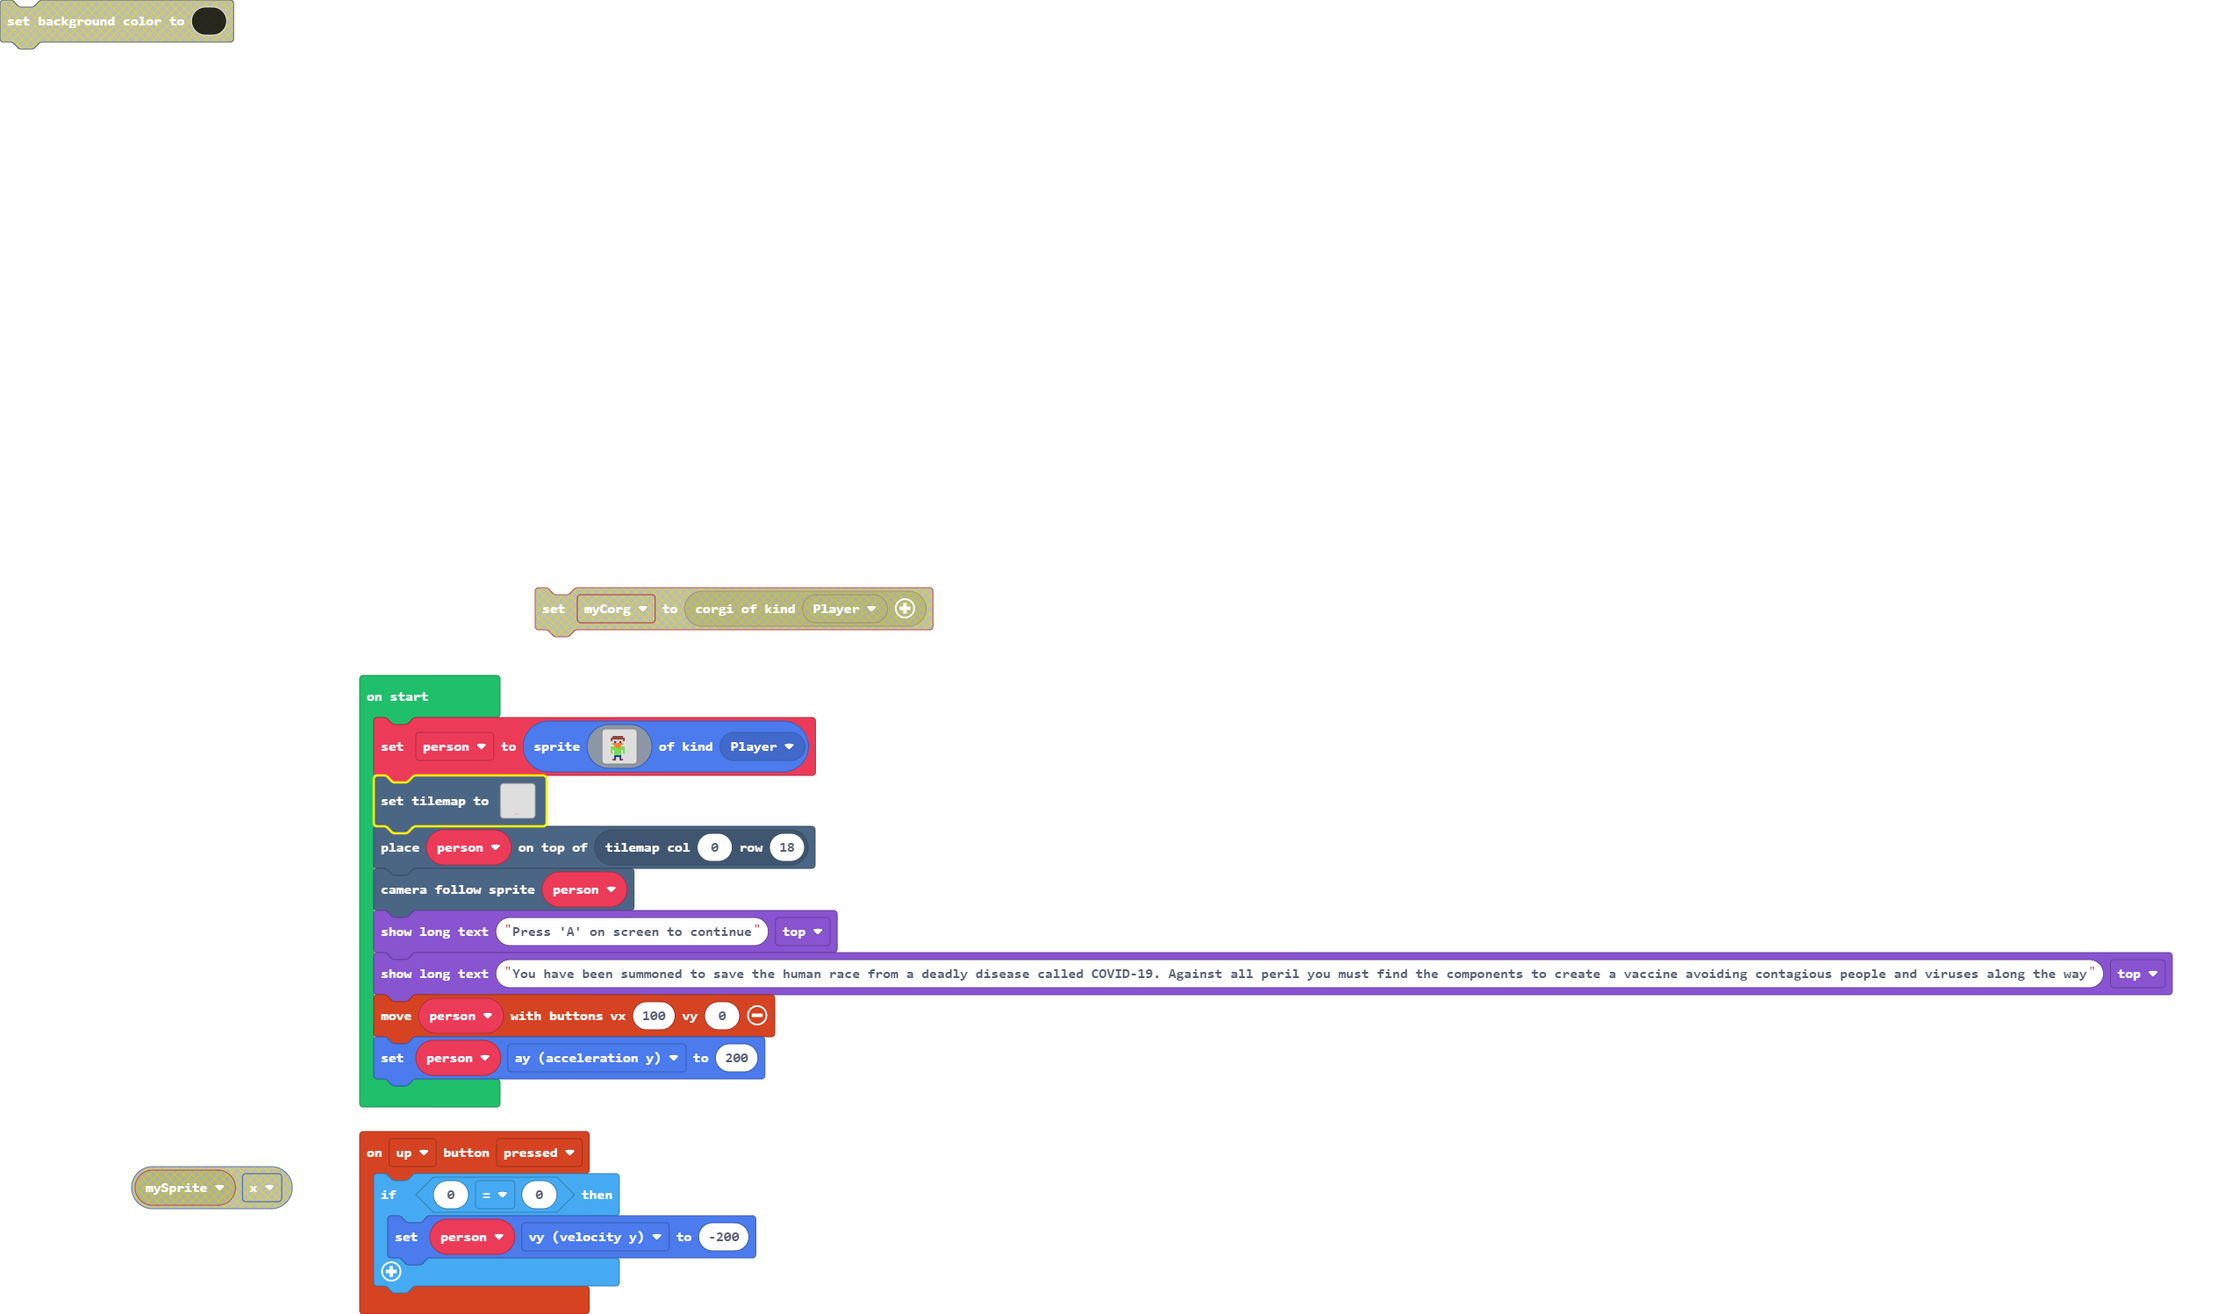
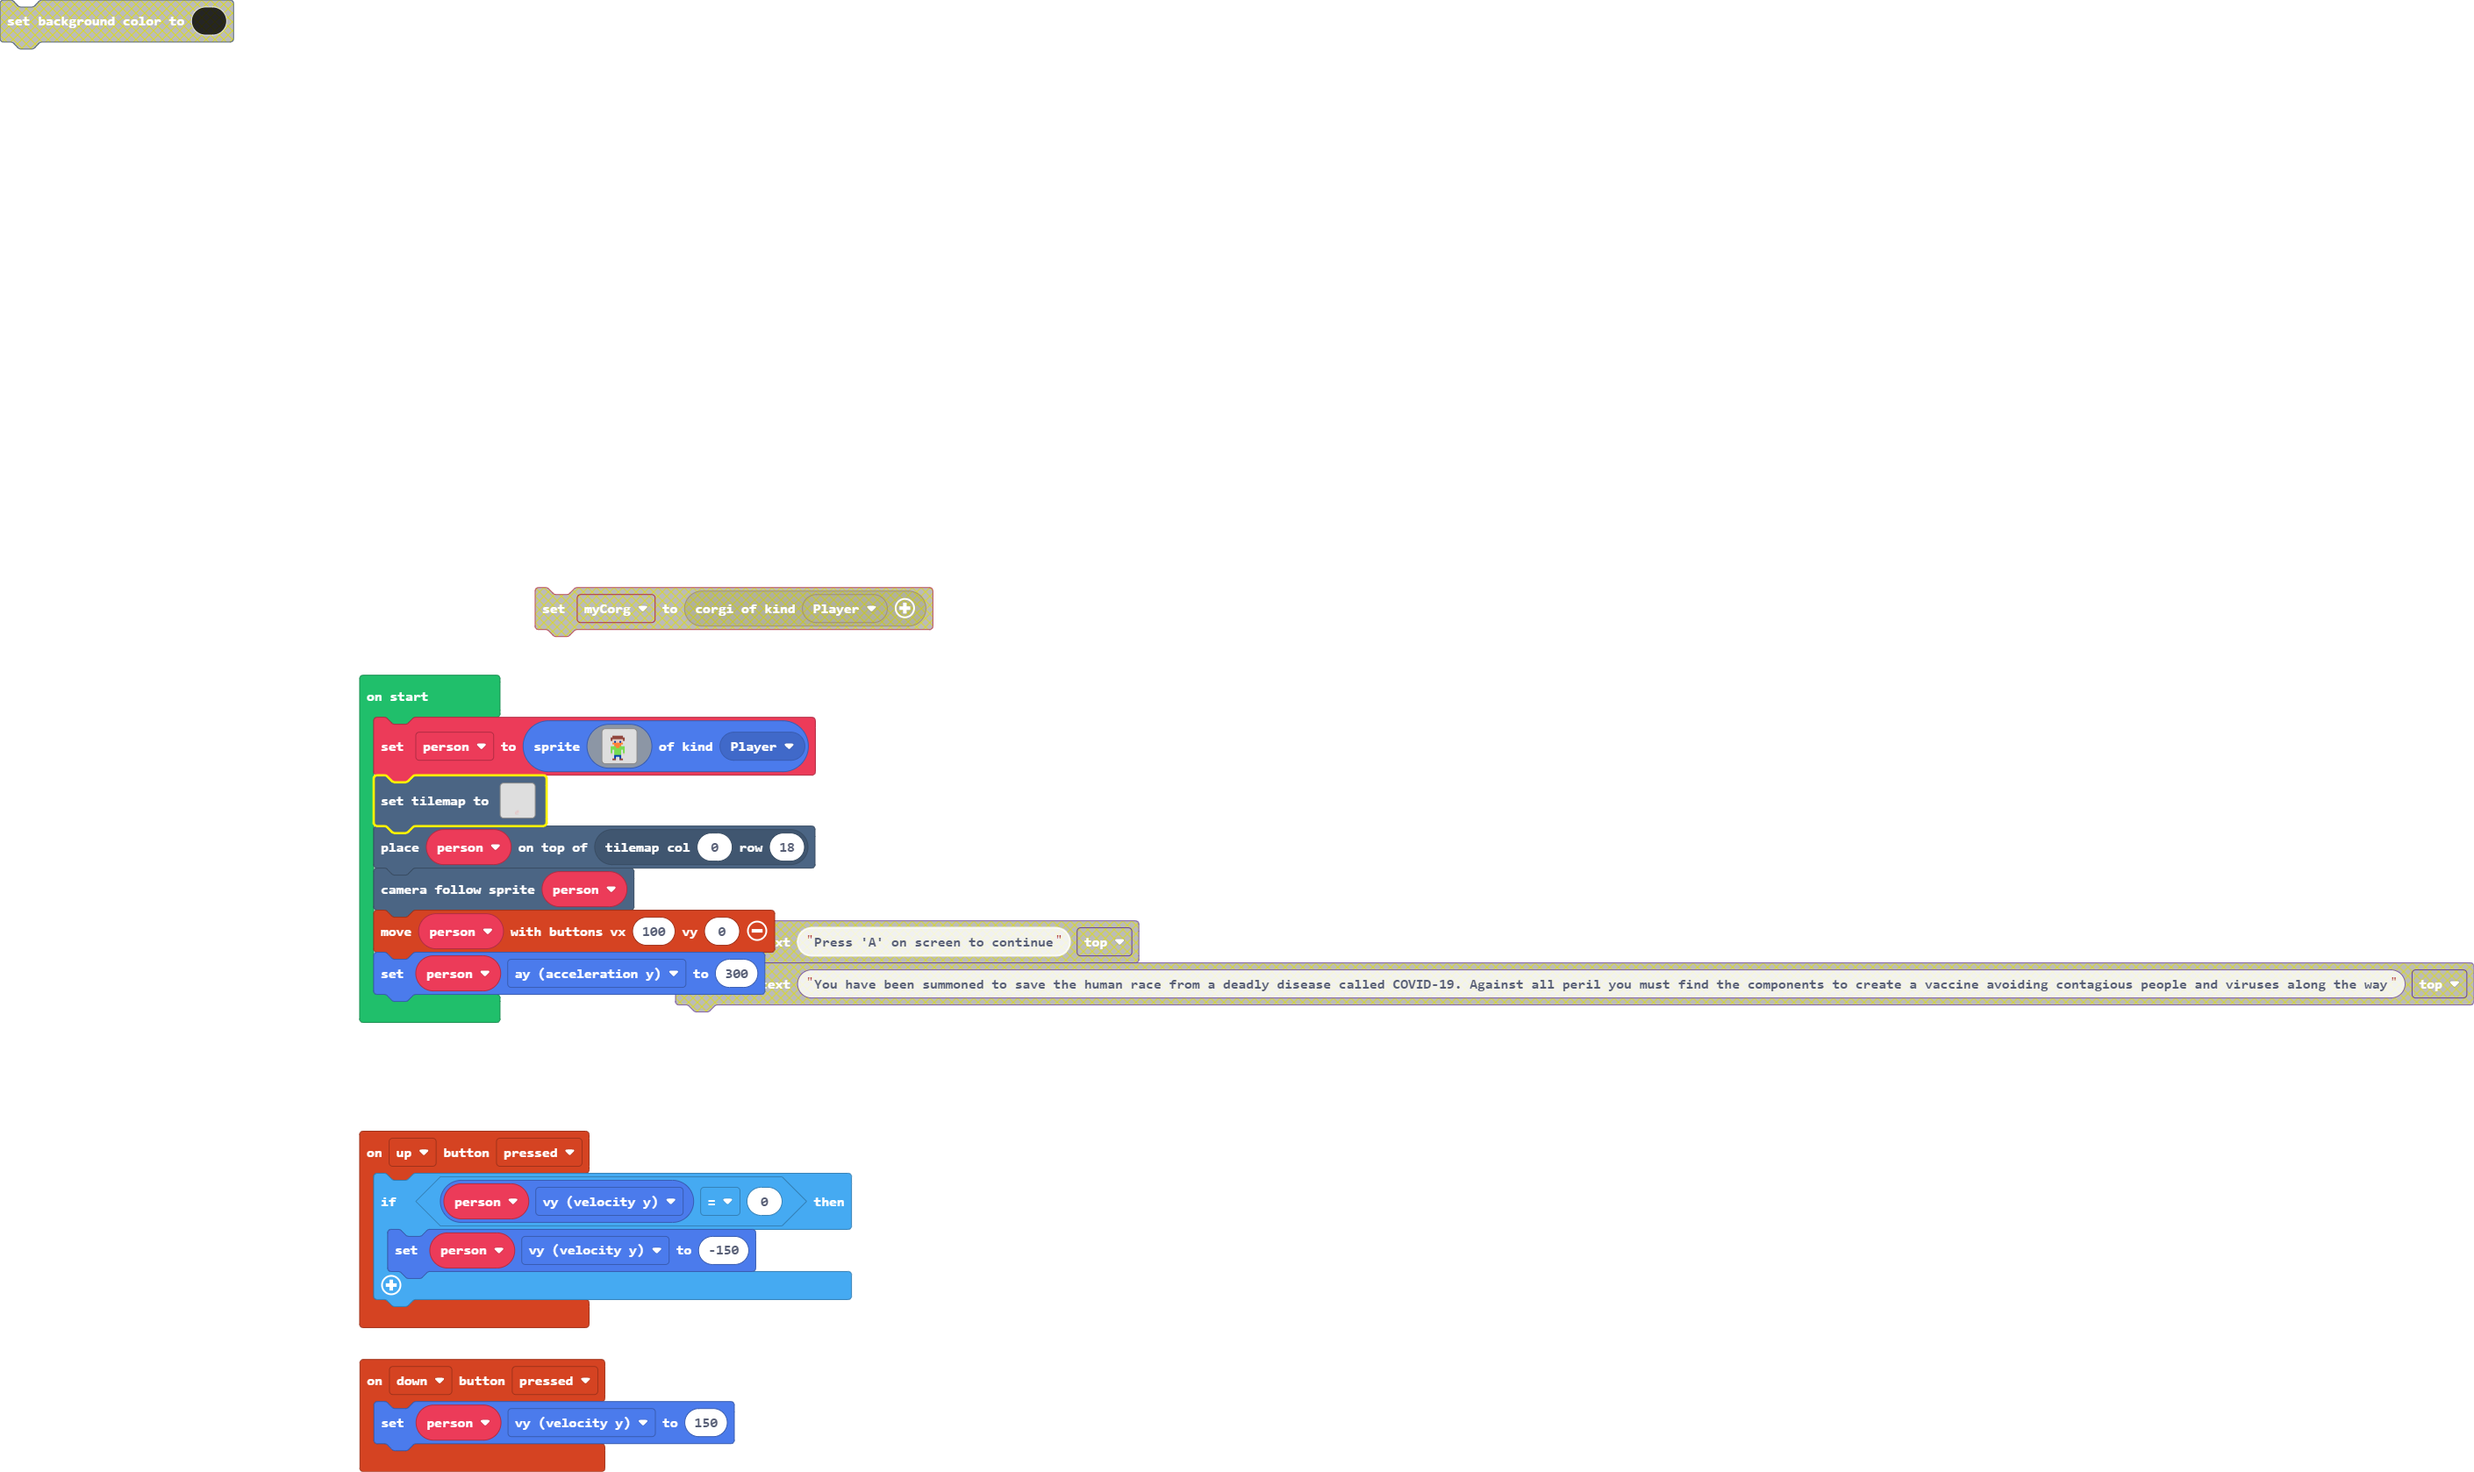
Map Change 02

Changed region(s): [[0.0625, 0.3992, 1.0, 1.0], [0.0, 0.0, 0.125, 0.0614]]

diff --git a/main.ts b/main.ts
@@ -2,9 +2,12 @@ namespace SpriteKind {
     export const h = SpriteKind.create()
 }
 controller.up.onEvent(ControllerButtonEvent.Pressed, function () {
-    if (0 == 0) {
-        person.vy = -200
+    if (person.vy == 0) {
+        person.vy = -150
     }
+})
+controller.down.onEvent(ControllerButtonEvent.Pressed, function () {
+    person.vy = 150
 })
 let person: Sprite = null
 person = sprites.create(img`
@@ -25,7 +28,7 @@ person = sprites.create(img`
     . . . . . 8 . . 8 . . . . . . . 
     . . . . e e . . e e . . . . . . 
     `, SpriteKind.Player)
-tiles.setTilemap(tiles.createTilemap(hex`140064000000000000000000000000000000000000000000000000000000000000000000000000000000000000000000000000000000000000000000000000000000000000000000000000000000000000000000000000000000000000000000000000000000000000000000000000000000000000000000000000000000000000000000000000000000000000000000000000000000000000000000000000000000000000000000000000000000000000000000000000000000000000000000000000000000000000000000000000000000000000000000000000000000000000000000000000000000000000000000000000000000000000000000000000000000000000000000000000000000000000000000000000000000000000000000000000000000000000000000000000000000000000000000000000000000000000000000010000000000000000000000000000000000000000000000000000000000000000000000000000000000000000000000000000000000000000000000000000000000000000000000000000000000000000000000000000000000000000000000000000000000000000000000000000000000000000000000000000000000000000000000000000000000000000000000000000000000000000000000000000000000000000000000000000000000000000000000000000000000000000000000000000000000000000000000000000000000000000000000000000000000000000000000000000000000000000000000000000000000000000000000000000000000000000000000000000000000000000000000000000000000000000000000000000000000000000000000000000000000000000000000000000000000000000000000000000000000000000000000000000000000000000000000000000000000000000000000000000000000000000000000000000000000000000000000000000000000000000000000000000000000000000000000000000000000000000000000000000000000000000000000000000000000000000000000000000000000000000000000000000000000000000000000000000000000000000000000000000000000000000000000000000000000000000000000000000000000000000000000000000000000000000000000000000000000000000000000000000000000000000000000000000000000000000000000000000000000000000000000000000000000000000000000000000000000000000000000000000000000000000000000000000000000000000000000000000000000000000000000000000000000000000000000000000000000000000000000000000000000000000000000000000000000000000000000000000000000000000000000000000000000000000000000000000000000000000000000000000000000000000000000000000000000000000000000000000000000000000000000000000000000000000000000000000000000000000000000000000000000000000000000000000000000000000000000000000000000000000000000000000000000000000000000000000000000000000000000000000000000000000000000000000000000000000000000000000000000000000000000000000000000000000000000000000000000000000000000000000000000000000000000000000000000000000000000000000000000000000000000000000000000000000000000000000000000000000000000000000000000000000000000000000000000000000000000000000000000000000000000000000000000000000000000000000000000000000000000000000000000000000000000000000000000000000000000000000000000000000000000000000000000000000000000000000000000000000000000000000000000000000000000000000000000000000000000000000000000000000000000000000000000000000000000000000000000000000000000000000000000000000000000000000000000000000000000000000000000000000000000000000000000000000000000000000000000000000000000020200000000000000000000000000000000000000000000000000000000000000000000000000000000000000000000000000000000000000000000000000000000000000000000000000000000000000000000000000000000000000000000000000000000000000000000000000000000000000000000000000000000000000000000000000000000000000000000000000000000000000000000000000000000000000000000000000000000000000000000000000000000000000000000000000000000000000000000000000000000000000000000000000000000000000000000000000000000000000000000000000000000000000000000000000000000000000000000000000000000000000000000000000000000000000000000000000000000000000000000000000000000000000000003000000000000000000000000000000000000000000030000000000000000000000030303030000000000000300000000000000000300000000000000000000000003000000000003000000000000000000000000000000000303030000000303040403030000000000000300000000000003030303030303030000000300000000000000030303030000000000000300000000000303030303030505050505050505050505050505`, img`
+tiles.setTilemap(tiles.createTilemap(hex`14009600000000000000000000000000000000000000000000000000000000000000000000000000000000000000000000000000000000000000000000000000000000000000000000000000000000000000000000000000000000000000000000000000000000000000000000000000000000000000000000000000000000000000000000000000000000000000000000000000000000000000000000000000000000000000000000000000000000000000000000000000000000000000000000000000000000000000000000000000000000000000000000000000000000000000000000000000000000000000000000000000000000000000000000000000000000000000000000000000000000000000000000000000000000000000000000000000000000000000000000000000000000000000000000000000000000000000000001000000000000000000000000000000000000000000000000000000000000000000000000000000000000000000000000000000000000000000000000000000000000000000000000000000000000000000000000000000000000000000000000000000000000000000000000000000000000000000000000000000000000000000000000000000000000000000000000000000000000000000000000000000000000000000000000000000000000000000000000000000000000000000000000000000000000000000000000000000000000000000000000000000000000000000000000000000000000000000000000000000000000000000000000000000000000000000000000000000000000000000000000000000000000000000000000000000000000000000000000000000000000000000000000000000000000000000000000000000000000000000000000000000000000000000000000000000000000000000000000000000000000000000000000000000000000000000000000000000000000000000000000000000000000000000000000000000000000000000000000000000000000000000000000000000000000000000000000000000000000000000000000000000000000000000000000000000000000000000000000000000000000000000000000000000000000000000000000000000000000000000000000000000000000000000000000000000000000000000000000000000000000000000000000000000000000000000000000000000000000000000000000000000000000000000000000000000000000000000000000000000000000000000000000000000000000000000000000000000000000000000000000000000000000000000000000000000000000000000000000000000000000000000000000000000000000000000000000000000000000000000000000000000000000000000000000000000000000000000000000000000000000000000000000000000000000000000000000000000000000000000000000000000000000000000000000000000000000000000000000000000000000000000000000000000000000000000000000000000000000000000000000000000000000000000000000000000000000000000000000000000000000000000000000000000000000000000000000000000000000000000000000000000000000000000000000000000000000000000000000000000000000000000000000000000000000000000000000000000000000000000000000000000000000000000000000000000000000000000000000000000000000000000000000000000000000000000000000000000000000000000000000000000000000000000000000000000000000000000000000000000000000000000000000000000000000000000000000000000000000000000000000000000000000000000000000000000000000000000000000000000000000000000000000000000000000000000000000000000000000000000000000000000000000000000000000000000000000000000000000000000000000000000000000000000000000000000000000000000000000000000000000000000000000000000000000000000000000000000000000000000000000000000000000000000000000000000000000000000000000000000000000000000000000000000000000000000000000000000000000000000000000000000000000000000000000000000000000000000000000000000000000000000000000000000000000000000000000000000000000000000000000000000000000000000000000000000000000000000000000000000000000000000000000000000000000000000000000000000000000000000000000000000000000000000000000000000000000000000000000000000000000000000000000000000000000000000000000000000000000000000000000000000000000000000000000000000000000000000000000000000000000000000000000000000000000000000000000000000000000000000000000000000000000000000000000000000000000000000000000000000000000000000000000000000000000000000000000000000000000000000000000000000000000000000000000000000000000000000000000000000000000000000000000000000000000000000000000000000000000000000000000000000000000000000000000000000000000000000000000000000000000000000000000000000000000000000000000000000000000000000000000000000000000000000000000000000000000000000000000000000000000000000000000000000000000000000000000000000000000000000000000000000000000000000000000000000000000000000000000000000000000000000000000000000000000000000000000000000000000000000000000000000000000000000000000000000000000000000000000000000000000000000000000000000000000000000000000000000000000000000000000000000000000000000000000000000000000000000000000000000000000000000000000000000000000000000000000000000000000000000000000000000000000000000000000000000000000000000000000000000000000000000000000000000000000000000000000000000000002000000000000000000000000000000000000000000000000000000000000000000000000000000000000000000000000000000000000000000000000000000000000000000000000000000000000000000000000000000000000000000000000000000000000000000000000000000000000000000000000000000000000000000000000000000000000000000000000000000000000000000000000000000000000000000000000000000000000000000000000000000000000000000000000000000000000000000000000000000000000000000000000000000000002000000000000000000000003030303000000000000000000000000000003030300000000000000000000000000000000000600000000000303000000000000000000000600000000000300030300000000000000000600000000000300030003030000000000000006000000000300030003000303000000000006000000000300030003000300030300000006000000000300030003000300030003030000000000000003030003000300030003000303000000000003000303000300030003000300030300000303040304030304030003000300030003030300000303030303030303030303030303030303030300000000000000000000000000000000000003030300000000000000000000000000000000000303030300000006000000000000000000000000030303030300000000000003000000000000000003030303030000000000000000030000000000000300000303030303030300000000000300000000030700000300000000000000000000000003000000030000000000000000000000000000000000000000030000000303040403030000000000000300000000000003030303030303030000000300000000000000030303000000000000000300000000000303030303030505050505050505050505050505`, img`
     ....................
     ....................
     ....................
@@ -117,19 +120,67 @@ tiles.setTilemap(tiles.createTilemap(hex`140064000000000000000000000000000000000
     ....................
     ....................
     ....................
-    ...........2........
-    .............2......
-    .....2222......2....
-    ....2............2..
-    ...2................
-    222...22..22......2.
+    ....................
+    ....................
+    ....................
+    ....................
+    ....................
+    ....................
+    ....................
+    ....................
+    ....................
+    ....................
+    ....................
+    ....................
+    ....................
+    ....................
+    ....................
+    ....................
+    ....................
+    ....................
+    ....................
+    ....................
+    ....................
+    ....................
+    ....................
+    ....................
+    ....................
+    ....................
+    ....................
+    ....................
+    ....................
+    ....................
+    ....................
+    ....................
+    ....................
+    ....................
+    ....................
+    ..............2222..
+    ............222.....
+    ..................22
+    ................2.22
+    ..............2.2.22
+    ............2.2.2.22
+    ..........2.2.2.2.22
+    ........2.2.2.2.2.22
+    .......22.2.2.2.2.22
+    .....2.22.2.2.2.2.22
+    ..22.2.22.2.2.2.2.22
+    2..22222222222222222
+    22..................
+    222.................
+    2222................
+    22222......2........
+    22222........2......
+    2..2222222.....2....
+    2...2............2..
+    .2..................
+    ..2...22..22......2.
     .....22222222...2...
-    ....2222......2.....
+    ....222.......2.....
     222222..............
-    `, [myTiles.transparency16,sprites.dungeon.floorLight0,myTiles.tile1,myTiles.tile5,myTiles.tile7,sprites.dungeon.hazardWater], TileScale.Sixteen))
+    `, [myTiles.transparency16,sprites.dungeon.floorLight0,myTiles.tile1,myTiles.tile5,myTiles.tile7,sprites.dungeon.hazardWater,myTiles.tile3,sprites.dungeon.chestClosed], TileScale.Sixteen))
 tiles.placeOnTile(person, tiles.getTileLocation(0, 18))
 scene.cameraFollowSprite(person)
-game.showLongText("Press 'A' on screen to continue", DialogLayout.Top)
-game.showLongText("You have been summoned to save the human race from a deadly disease called COVID-19. Against all peril you must find the components to create a vaccine avoiding contagious people and viruses along the way", DialogLayout.Top)
 controller.moveSprite(person, 100, 0)
-person.ay = 200
+person.ay = 300
